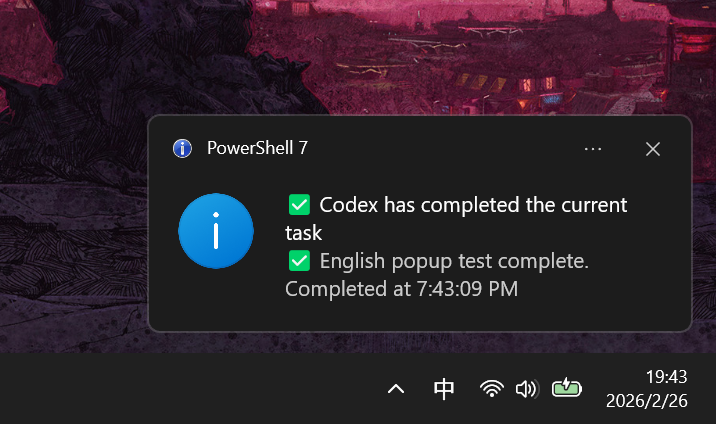
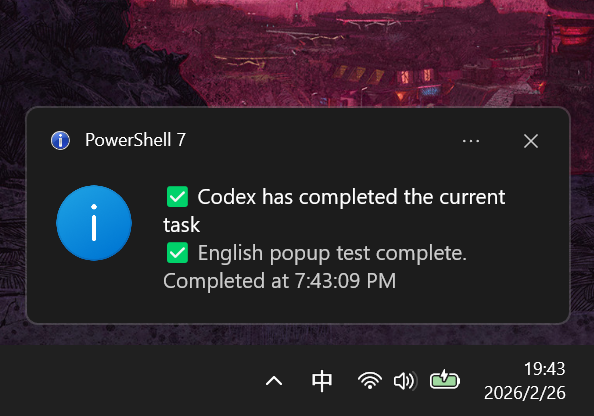
docs: update bilingual README demos and badges

diff --git a/README.md b/README.md
@@ -5,7 +5,7 @@
   <a href="#"><img alt="VS Code" src="https://img.shields.io/badge/VS%20Code-extension-007ACC.svg" /></a>
   <a href="LICENSE"><img alt="License" src="https://img.shields.io/badge/license-MIT-green.svg" /></a>
   &nbsp;&nbsp;
-  <a href="README-zh.md">中文说明</a>
+  <a href="README-zh.md"><kbd>[中文说明]</kbd></a>
 </p>
 
 ✅ **Get notified immediately when Codex tasks finish | Native desktop toast popup | Native notification sound**  
@@ -15,13 +15,14 @@
 Codex-Notifier actively reminds you when Codex tasks complete (through popup and sound).  
 It does not change your Codex workflow.
 
-## Visual Demo
+## 🎬 Visual Demo
 
 <p align="center">
-  <img src="docs/demo/image.png" alt="Codex-Notifier demo" width="760" />
+  <img src="docs/demo/image.png" alt="Codex-Notifier demo (English)" width=600 />
+  <img src="docs/demo/image-zh.png" alt="Codex-Notifier demo (Chinese)" width=600 />
 </p>
 
-## Features  
+## ✨ Features  
 
 | Feature | Description |
 | :--- | :--- |
@@ -31,9 +32,11 @@ It does not change your Codex workflow.
 | **🧪 Operational Scripts** | Includes `install`, `doctor`, and `uninstall` scripts for setup, validation, and rollback. |
 | **🌐 i18n/l10n Scaffold** | Supports `en-US` + `zh-CN`, CLDR formatting, ICU plural templates, and pseudo RTL (`ar-XB`) validation. |
 
-## Install Prompt (Send to Codex)
+## 🚀 Install Prompt (Send to Codex)
 
 `Please install Codex-Notifier on Windows: clone https://github.com/MaxMiksa/Codex-Notifier, run scripts/install.ps1; if a Stop hook conflict appears, merge ~/.codex/config.toml using templates/stop-hook.snippet.toml while keeping existing hooks; then run scripts/doctor.ps1 and report back.`
+
+## 📚 More Info
 
 <details>
   <summary>(Optional) Manual install and verification</summary>
